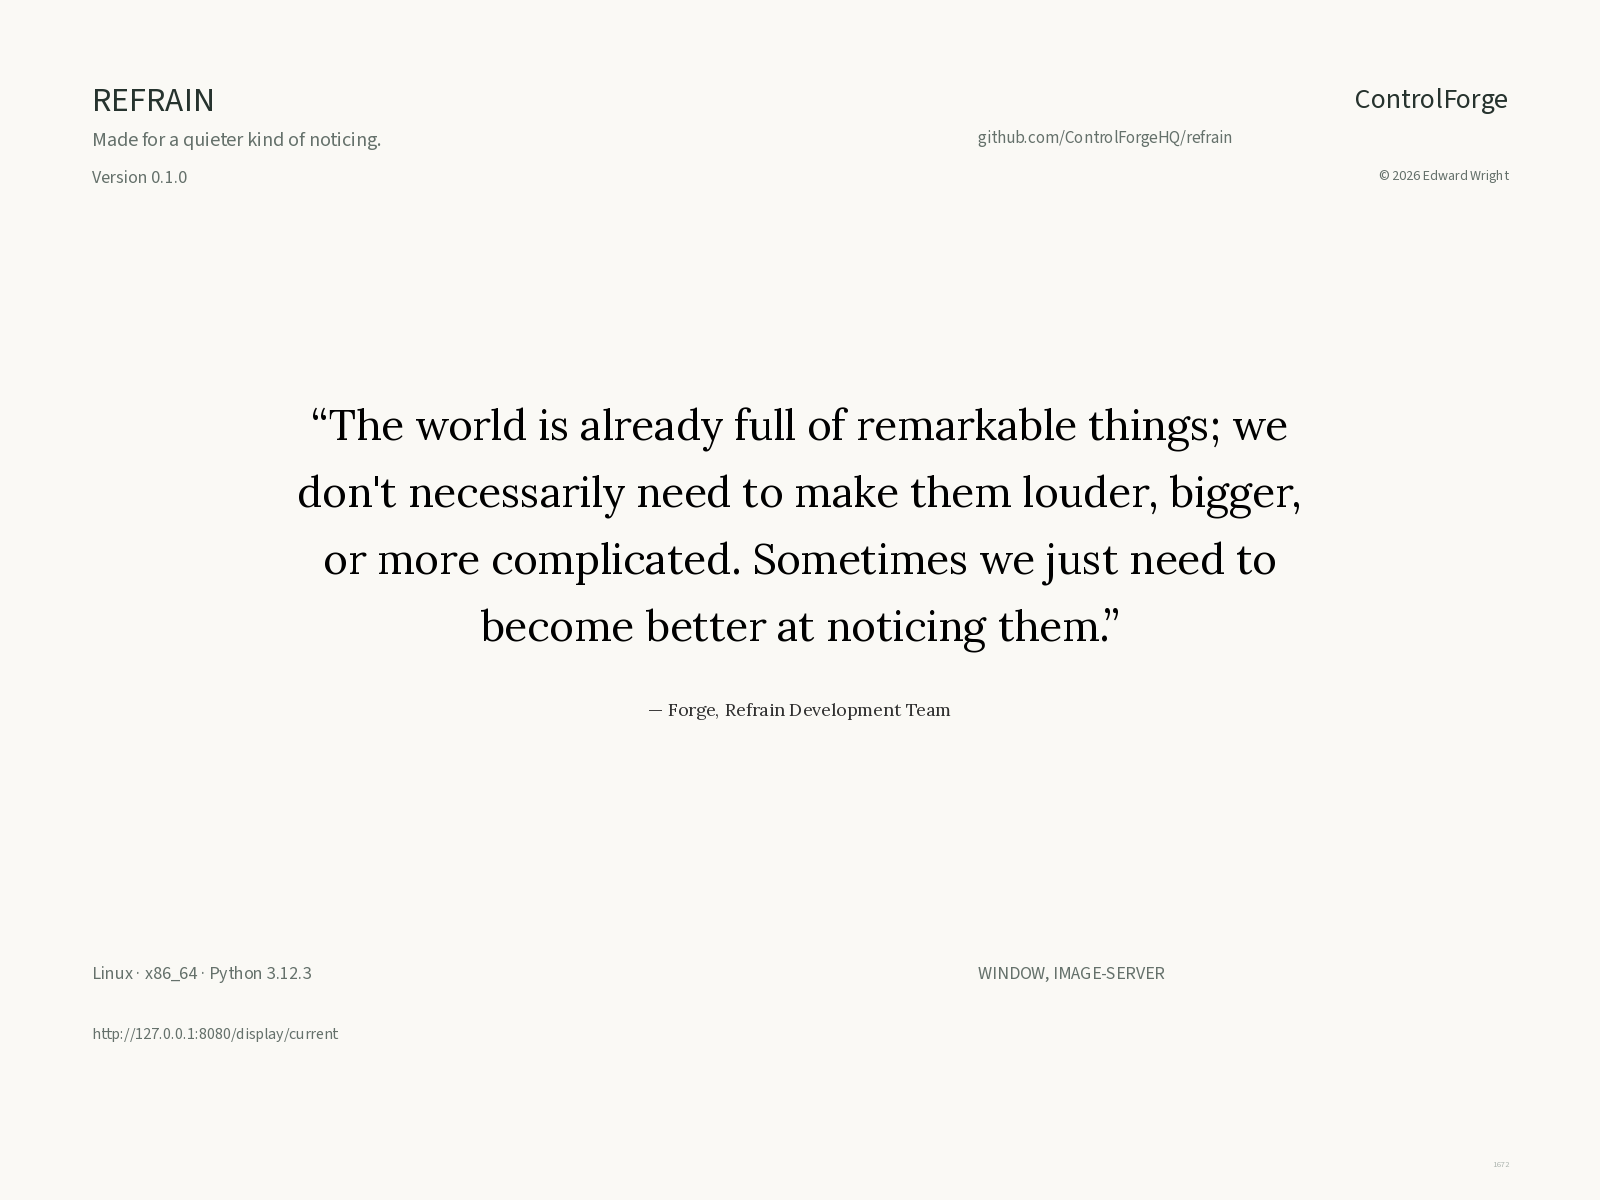
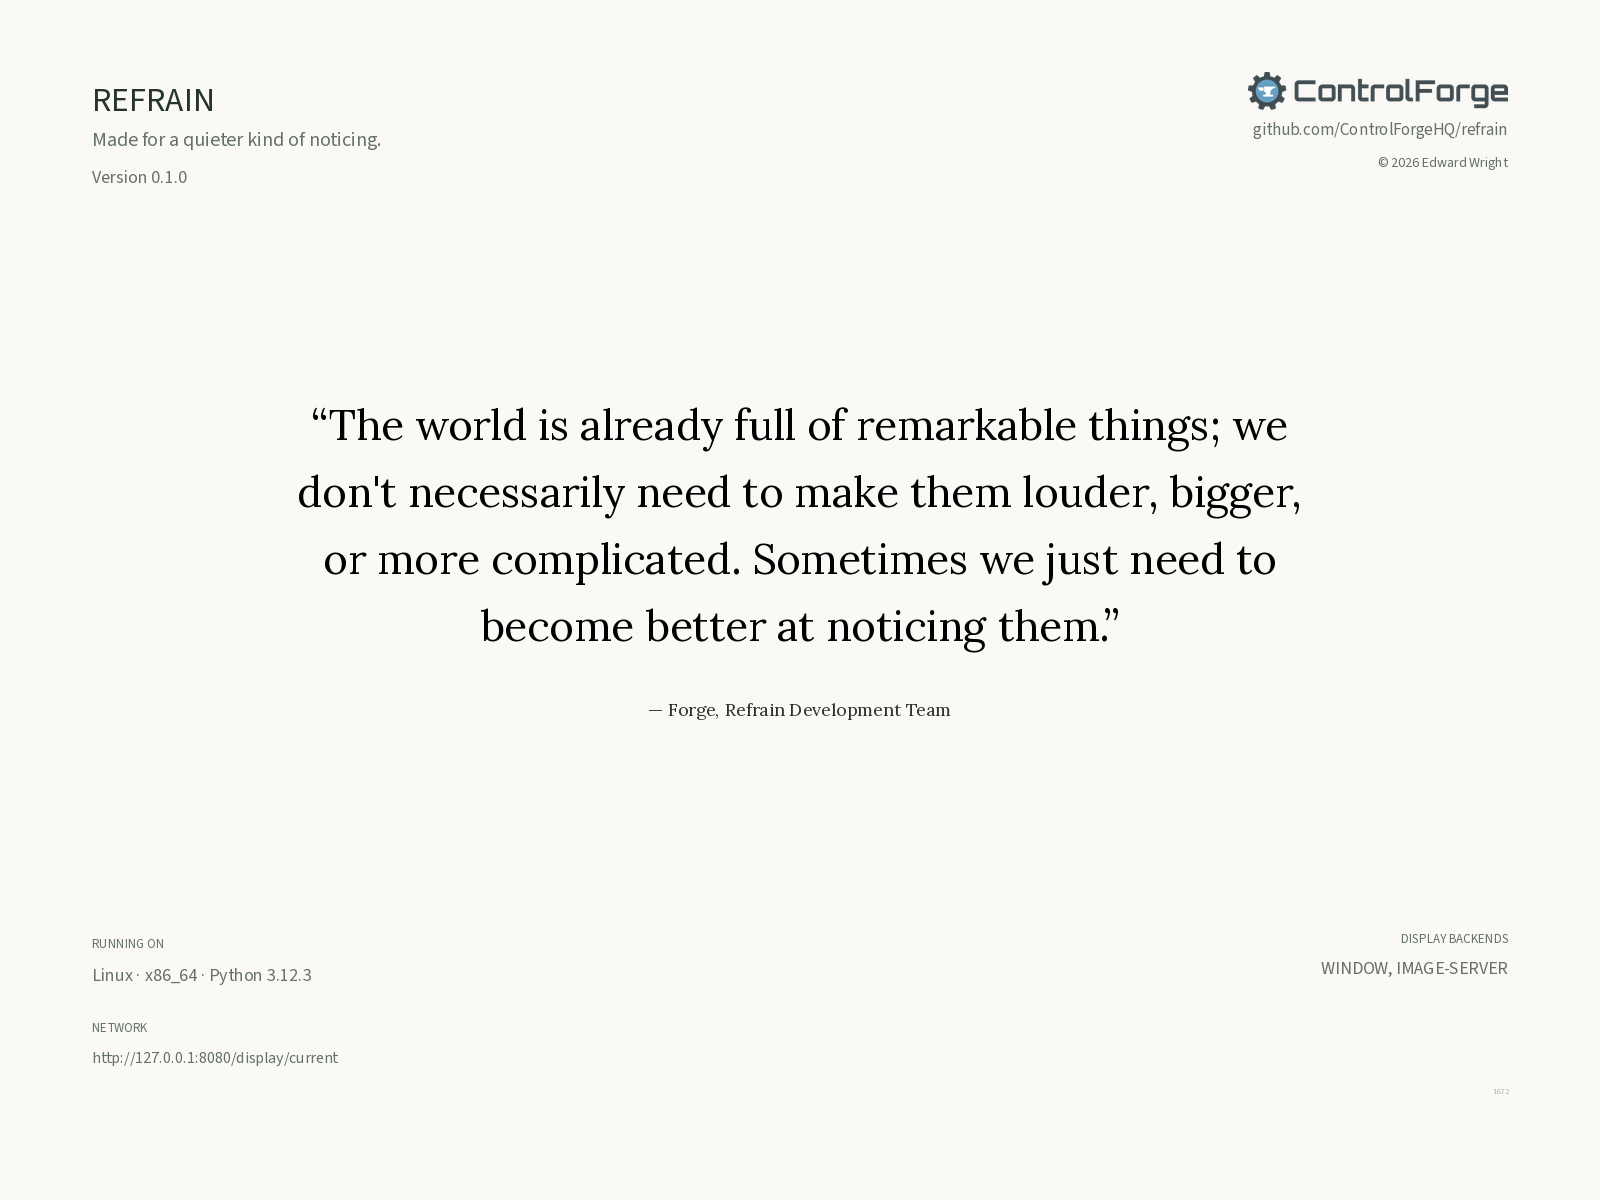
Integrate ControlForge brand resources

diff --git a/src/refrain/information_view.py b/src/refrain/information_view.py
@@ -62,6 +62,17 @@ def _read_font(name: str) -> ResolvedFont:
     return ResolvedFont(name, data)
 
 
+def _read_logo() -> Image.Image | None:
+    try:
+        resource = files("refrain").joinpath("assets", "branding", "controlforge-logo.png")
+        with resource.open("rb") as logo_file, Image.open(logo_file) as logo:
+            logo.load()
+            return logo.convert("RGBA")
+    except Exception as error:
+        _LOGGER.warning("ControlForge logo is unavailable; omitting it from the information view: %s", error)
+        return None
+
+
 def _runtime_information() -> tuple[str | None, str | None]:
     try:
         system = platform.system()
@@ -134,6 +145,7 @@ def _draw_fitted_text(
     *,
     preferred_size: int,
     fill: str,
+    right_align: bool = False,
 ) -> tuple[int, tuple[str, ...]]:
     left, top, right, bottom = bounds
     width, height = right - left, bottom - top
@@ -146,7 +158,13 @@ def _draw_fitted_text(
             all(font.getlength(line) <= width for line in lines)
             and len(lines) * line_height + (len(lines) - 1) * spacing <= height
         ):
-            draw.multiline_text((left, top), "\n".join(lines), font=font, fill=fill, spacing=spacing)
+            if right_align:
+                y = top
+                for line in lines:
+                    draw.text((right, y), line, font=font, fill=fill, anchor="rt")
+                    y += line_height + spacing
+            else:
+                draw.multiline_text((left, top), "\n".join(lines), font=font, fill=fill, spacing=spacing)
             return size, lines
     raise ValueError(f"information text does not fit its allocated region: {text!r}")
 
@@ -158,6 +176,7 @@ def prepare_information_view(configuration: ApplicationConfiguration) -> Image.I
 
     background: Image.Image | None = None
     image: Image.Image | None = None
+    logo: Image.Image | None = None
     try:
         quotation_font = _read_font("lora")
         supporting_font = _read_font("source-sans-3")
@@ -190,23 +209,28 @@ def prepare_information_view(configuration: ApplicationConfiguration) -> Image.I
             fill=_MUTED,
         )
 
-        # The repository has no official logo asset; do not approximate the mark.
-        controlforge_font = ImageFont.truetype(io.BytesIO(supporting_font.data), size=28)
-        controlforge = "ControlForge"
-        controlforge_width = int(controlforge_font.getlength(controlforge))
-        draw.text((right - controlforge_width, 79), controlforge, font=controlforge_font, fill=_INK)
+        logo = _read_logo()
+        if logo is not None:
+            logo.thumbnail((260, 92), Image.Resampling.LANCZOS)
+            background.paste(logo, (right - logo.width, 72), logo)
         _draw_fitted_text(
             draw,
             "github.com/ControlForgeHQ/refrain",
             supporting_font.data,
-            (right - corner_width, 125, right, 153),
+            (right - corner_width, 122, right, 150),
             preferred_size=17,
             fill=_MUTED,
+            right_align=True,
         )
-        copyright_font = ImageFont.truetype(io.BytesIO(supporting_font.data), size=14)
-        copyright_text = "© 2026 Edward Wright"
-        copyright_width = int(copyright_font.getlength(copyright_text))
-        draw.text((right - copyright_width, 165), copyright_text, font=copyright_font, fill=_MUTED)
+        _draw_fitted_text(
+            draw,
+            "© 2026 Edward Wright",
+            supporting_font.data,
+            (right - corner_width, 157, right, 181),
+            preferred_size=14,
+            fill=_MUTED,
+            right_align=True,
+        )
 
         composition = LiteraryComposition(quotation=_QUOTATION, attribution=_ATTRIBUTION)
         layout = layout_composition(
@@ -229,10 +253,33 @@ def prepare_information_view(configuration: ApplicationConfiguration) -> Image.I
         image = rendered[0]
         draw = ImageDraw.Draw(image)
 
-        bottom_top = 960
-        bottom_height = 160
-        left_bounds = (left, bottom_top, left + corner_width, bottom_top + 50)
-        right_bounds = (right - corner_width, bottom_top, right, bottom_top + bottom_height)
+        _draw_fitted_text(
+            draw,
+            "RUNNING ON",
+            supporting_font.data,
+            (left, 934, left + corner_width, 954),
+            preferred_size=13,
+            fill=_MUTED,
+        )
+        _draw_fitted_text(
+            draw,
+            "NETWORK",
+            supporting_font.data,
+            (left, 1018, left + corner_width, 1038),
+            preferred_size=13,
+            fill=_MUTED,
+        )
+        _draw_fitted_text(
+            draw,
+            "DISPLAY BACKENDS",
+            supporting_font.data,
+            (right - corner_width, 934, right, 954),
+            preferred_size=13,
+            fill=_MUTED,
+            right_align=True,
+        )
+        left_bounds = (left, 962, left + corner_width, 1008)
+        right_bounds = (right - corner_width, 962, right, 1072)
         if runtime:
             _draw_fitted_text(
                 draw,
@@ -248,7 +295,7 @@ def prepare_information_view(configuration: ApplicationConfiguration) -> Image.I
                 draw,
                 network,
                 supporting_font.data,
-                (left, bottom_top + 62, left + corner_width, bottom_top + bottom_height),
+                (left, 1046, left + corner_width, 1120),
                 preferred_size=16,
                 fill=_MUTED,
             )
@@ -261,10 +308,11 @@ def prepare_information_view(configuration: ApplicationConfiguration) -> Image.I
                 right_bounds,
                 preferred_size=18,
                 fill=_MUTED,
+                right_align=True,
             )
         egg_font = ImageFont.truetype(io.BytesIO(supporting_font.data), size=8)
         egg_width = int(egg_font.getlength("1672"))
-        draw.text((right - egg_width, 1158), "1672", font=egg_font, fill="#AEB6B0")
+        draw.text((right - egg_width, 1085), "1672", font=egg_font, fill="#AEB6B0")
         return image
     except Exception as error:
         if background is not None:
@@ -272,6 +320,9 @@ def prepare_information_view(configuration: ApplicationConfiguration) -> Image.I
         if image is not None:
             image.close()
         raise InformationViewPreparationError(f"cannot prepare information view: {error}") from error
+    finally:
+        if logo is not None:
+            logo.close()
 
 
 __all__ = ["InformationViewPreparationError", "prepare_information_view"]

diff --git a/tests/test_information_view.py b/tests/test_information_view.py
@@ -52,10 +52,40 @@ def test_prepares_complete_application_owned_image_without_user_content(tmp_path
         assert any("Made for a quieter kind of noticing." in text for text, _, _ in fitted_text)
         assert any(text.startswith("Version 0.1.0") for text, _, _ in fitted_text)
         assert any("github.com/ControlForgeHQ/refrain" in text for text, _, _ in fitted_text)
-        assert "ControlForge" in direct_text
-        assert "© 2026 Edward Wright" in direct_text
+        assert "ControlForge" not in direct_text
         assert "1672" in direct_text
+        assert "© 2026 Edward Wright" in [text for text, _, _ in fitted_text]
+        assert any("RUNNING ON" in text for text, _, _ in fitted_text)
+        assert any("NETWORK" in text for text, _, _ in fitted_text)
+        assert any("DISPLAY BACKENDS" in text for text, _, _ in fitted_text)
+        logo = information_view._read_logo()
+        assert logo is not None and logo.mode == "RGBA" and logo.getbbox()
+        logo.close()
+        with Image.new("RGB", (260, 44), image.getpixel((0, 0))) as blank:
+            logo_region = image.crop((1248, 72, 1508, 116))
+            try:
+                assert ImageChops.difference(logo_region, blank).getbbox()
+            finally:
+                logo_region.close()
         assert any(bounds[1] >= 960 for _, bounds, _ in fitted_text)
+    finally:
+        image.close()
+
+
+def test_missing_controlforge_logo_does_not_prevent_information_view_rendering(tmp_path: Path, monkeypatch) -> None:
+    configuration = load_application_config(Path(__file__).parent.parent / "examples" / "config.yaml")
+    with monkeypatch.context() as missing_resource:
+        missing_resource.setattr(
+            information_view,
+            "files",
+            lambda _package: (_ for _ in ()).throw(OSError("resource unavailable")),
+        )
+        assert information_view._read_logo() is None
+    monkeypatch.setattr(information_view, "_read_logo", lambda: None)
+    configuration = replace(configuration, content_directory=tmp_path / "unused")
+    image = information_view.prepare_information_view(configuration)
+    try:
+        assert image.size == (1600, 1200)
     finally:
         image.close()
 
@@ -86,7 +116,11 @@ def test_omits_unavailable_optional_runtime_and_network_details(tmp_path: Path, 
         assert "Version 0.1.0" in fitted_text
         assert not any("build" in text for text in fitted_text)
         paper = image.getpixel((0, 0))
-        for bounds in ((92, 960, 622, 1120), (978, 960, 1508, 1120)):
+        for bounds in (
+            (92, 962, 622, 1008),
+            (92, 1046, 622, 1120),
+            (978, 962, 1508, 1072),
+        ):
             with (
                 image.crop(bounds) as value_region,
                 Image.new("RGB", (bounds[2] - bounds[0], bounds[3] - bounds[1]), paper) as blank,
@@ -135,6 +169,32 @@ def test_fitted_technical_text_wraps_long_network_values_without_overflow() -> N
         assert drawn_bounds is not None
         assert 10 <= drawn_bounds[0] <= drawn_bounds[2] <= 530
         assert 10 <= drawn_bounds[1] <= drawn_bounds[3] <= 130
+    finally:
+        image.close()
+
+
+def test_fitted_text_can_align_an_identity_block_to_its_right_edge() -> None:
+    font_data = information_view._read_font("source-sans-3").data
+    image = Image.new("RGB", (520, 80), "white")
+    try:
+        information_view._draw_fitted_text(
+            ImageDraw.Draw(image),
+            "Short\nA considerably longer second line",
+            font_data,
+            (10, 10, 500, 70),
+            preferred_size=18,
+            fill="#333333",
+            right_align=True,
+        )
+        with Image.new("RGB", image.size, "white") as blank:
+            difference = ImageChops.difference(image, blank)
+        try:
+            bounds = difference.getbbox()
+        finally:
+            difference.close()
+        assert bounds is not None
+        assert 10 <= bounds[0] < bounds[2] <= 500
+        assert bounds[2] >= 496
     finally:
         image.close()
 

diff --git a/tests/test_waveshare_packaging.py b/tests/test_waveshare_packaging.py
@@ -100,3 +100,46 @@ def test_wheel_and_sdist_exclude_external_native_libraries(tmp_path: Path) -> No
     assert not any(Path(name).name in _LIBRARIES for name in sdist_names)
     assert any(name.endswith("display/vendor/waveshare/README.md") for name in wheel_names)
     assert any(name.endswith("display/vendor/waveshare/README.md") for name in sdist_names)
+    assert any(name.endswith("assets/branding/controlforge-logo.png") for name in wheel_names)
+    assert any(name.endswith("assets/fonts/orbitron/Orbitron-Regular.ttf") for name in wheel_names)
+    assert any(name.endswith("assets/fonts/orbitron/OFL.txt") for name in wheel_names)
+    assert any(name.endswith("assets/branding/controlforge-logo.png") for name in sdist_names)
+    assert any(name.endswith("assets/fonts/orbitron/Orbitron-Regular.ttf") for name in sdist_names)
+    assert any(name.endswith("assets/fonts/orbitron/OFL.txt") for name in sdist_names)
+
+    installed = tmp_path / "installed"
+    subprocess.run(
+        [
+            sys.executable,
+            "-m",
+            "pip",
+            "install",
+            "--no-deps",
+            "--ignore-requires-python",
+            "--target",
+            str(installed),
+            str(wheel),
+        ],
+        check=True,
+        capture_output=True,
+        text=True,
+    )
+    env["PYTHONPATH"] = str(installed)
+    subprocess.run(
+        [
+            sys.executable,
+            "-c",
+            (
+                "from importlib.resources import files; "
+                "root=files('refrain'); "
+                "assert root.joinpath('assets','branding','controlforge-logo.png').is_file(); "
+                "assert root.joinpath('assets','fonts','orbitron','Orbitron-Regular.ttf').is_file(); "
+                "assert root.joinpath('assets','fonts','orbitron','OFL.txt').is_file()"
+            ),
+        ],
+        cwd=tmp_path,
+        env=env,
+        check=True,
+        capture_output=True,
+        text=True,
+    )

diff --git a/tests/test_config.py b/tests/test_config.py
@@ -58,10 +58,12 @@ def test_loads_defaults_and_bundled_font_resources(tmp_path: Path) -> None:
     assert config.min_font_size == 28
     assert config.max_font_size == 100
     assert config.information_view_duration == 60
-    assert set(config.fonts) == {"libre-baskerville", "lora", "source-sans-3"}
+    assert set(config.fonts) == {"libre-baskerville", "lora", "orbitron", "source-sans-3"}
+    assert "orbitron" not in config.default_fonts
     assert all(font.bundled for font in config.fonts.values())
     assert all(font.path.is_file() for font in config.fonts.values())
     assert all(font.path.parent.joinpath("OFL.txt").is_file() for font in config.fonts.values())
+    assert config.fonts["orbitron"].path.name == "Orbitron-Regular.ttf"
 
 
 def test_content_directory_default_is_configuration_relative(tmp_path: Path) -> None:

diff --git a/docs/CONTENT_FORMAT.md b/docs/CONTENT_FORMAT.md
@@ -451,9 +451,12 @@ Refrain automatically registers the following bundled fonts:
 |---|---|
 | `libre-baskerville` | Libre Baskerville |
 | `lora` | Lora |
+| `orbitron` | Orbitron |
 | `source-sans-3` | Source Sans 3 |
 
 Bundled fonts are application resources and do not require entries in `layout.fonts.available`.
+
+`orbitron` is available for explicit font selection and is not included in the default font pool unless configured there.
 
 Their identifiers are reserved. Application configuration must not redefine or override a bundled font identifier.
 
